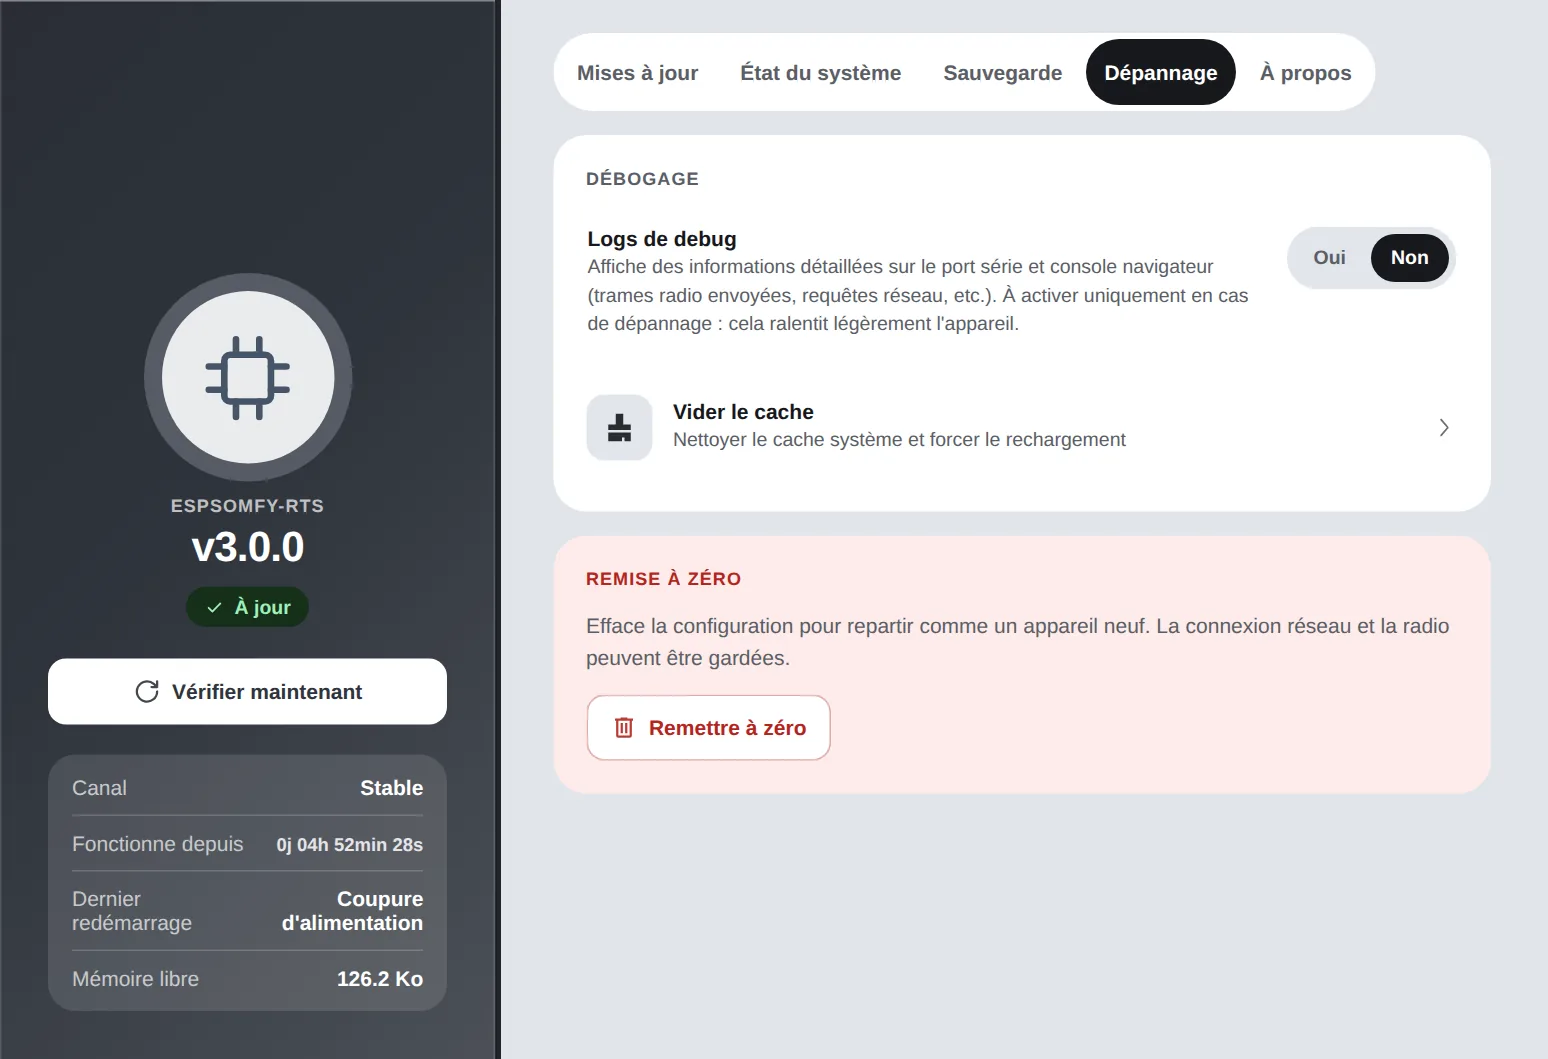
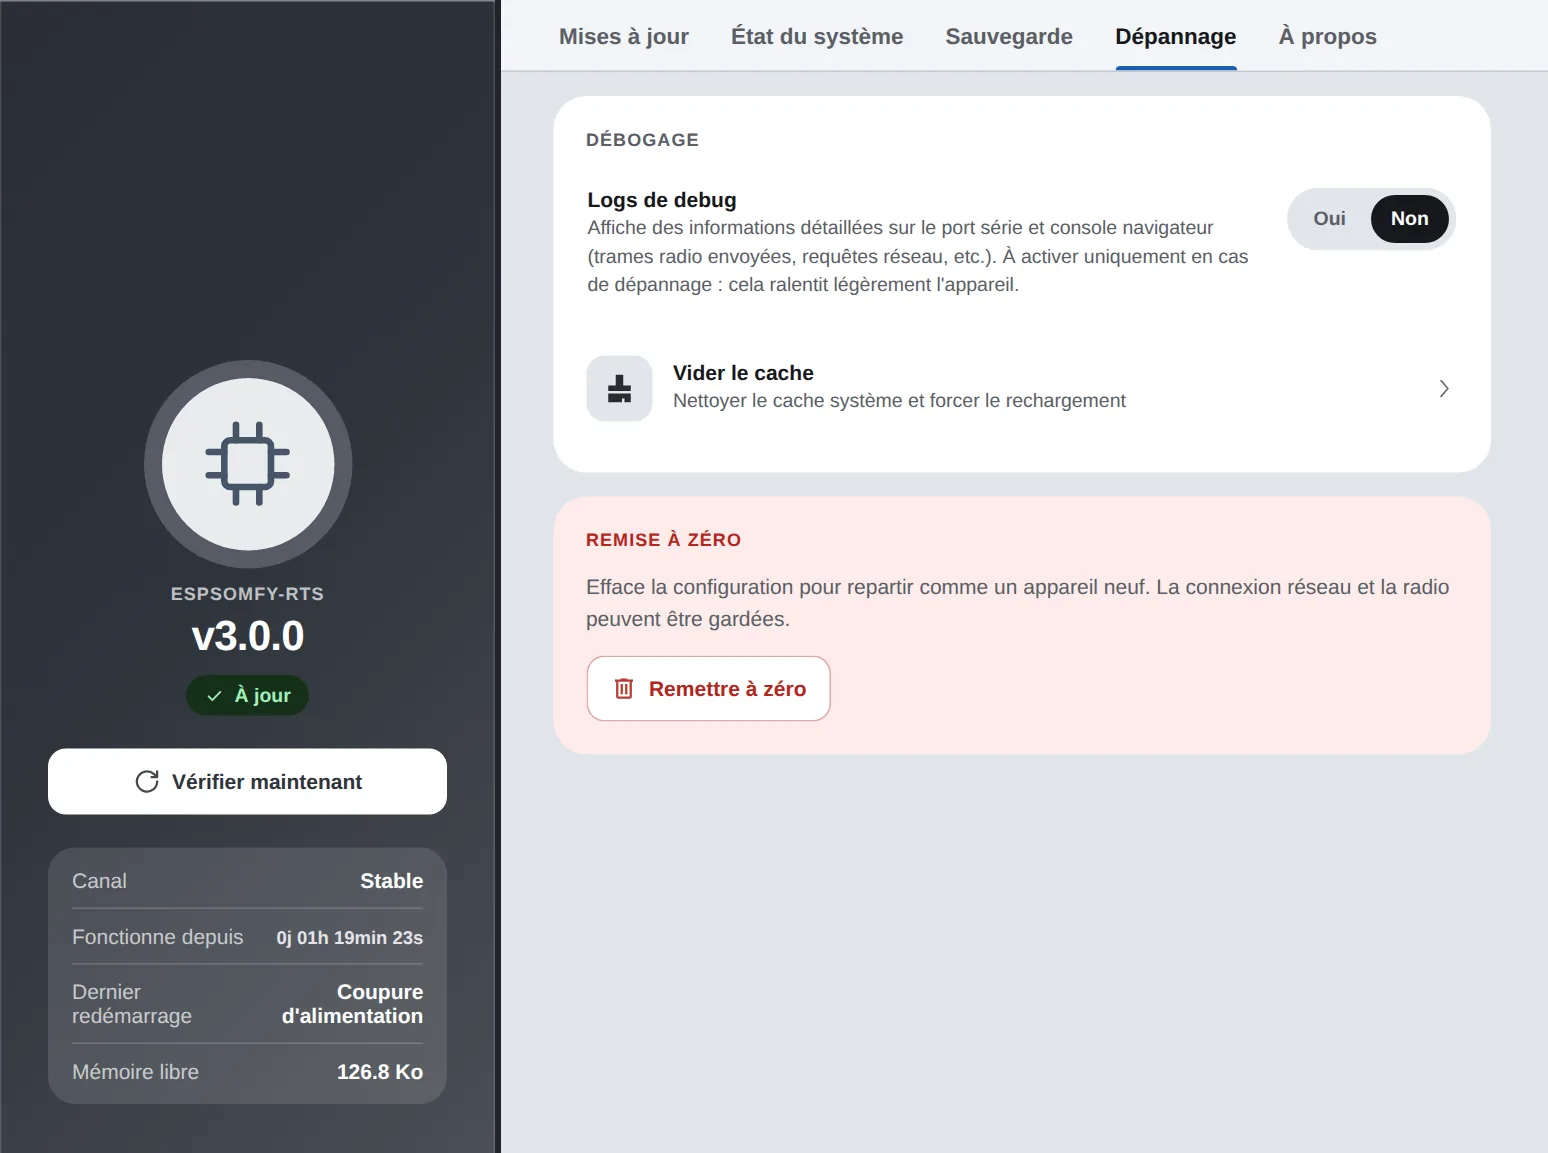
Document the install mode on the System page and refresh its captures
The Updates tab now describes the manual install tile as it stands:
install from a file, or restart into install mode, the minimal firmware
every update goes through. The troubleshooting tab points to install
mode (six power cuts) next to recovery mode (three), and the About tab
mentions the Discussions hint of the help tooltip.

The ten captures were retaken on the test device with the current
interface, including the underlined tab band, cropped to the page
without the app sidebar.

Checked with docs/verifier.sh: no dead link or anchor. Only the System
page and its images are touched; the work in progress in data-dev and
the other doc pages is left out.

diff --git a/docs/content/v3/appareil/systeme/index.md b/docs/content/v3/appareil/systeme/index.md
@@ -34,12 +34,17 @@ jour ou restauration.
 | **Version installée** | Le numéro de version, l'état (*Votre système est à jour*, *Mise à jour disponible*…) et l'heure de la dernière vérification. Quand une version est disponible, la tuile affiche la version proposée, un lien vers ses **notes de version** et un bouton pour l'installer. La ligne **Choisir une autre version** permet de réinstaller, de revenir en arrière ou de passer en version de développement. |
 | **Vérification automatique** | **Me prévenir des mises à jour** : `Oui` / `Non`. La vérification a lieu à chaque ouverture de l'interface ; rien n'est installé sans votre accord. |
 | **Canal** | **Version stable** (une version publiée) ou **Version de développement** (construite à chaque modification du code, sans être éprouvée). |
-| **Installation manuelle** | Sans passer par Internet : **Installer depuis un fichier** (un fichier `.bin` téléchargé au préalable) et **Redémarrer en mode installation**. |
+| **Installation manuelle** | Sans passer par Internet, avec un fichier téléchargé au préalable. **Installer depuis un fichier** envoie une image `.bin` faite pour votre carte (son nom est rappelé sous le bouton). **Redémarrer en mode installation** demande confirmation, redémarre l'appareil sur son firmware minimal et ouvre sa page d'envoi de fichier. |
 
 C'est **votre navigateur**, et non l'appareil, qui va chercher les versions publiées : c'est lui qui
 doit avoir accès à Internet.
 
-Pour aller plus loin : [Mises à jour du firmware](mises-a-jour.md).
+Chaque mise à jour, en ligne ou par fichier, passe par le [Mode installation](mode-installation.md) :
+l'appareil y redémarre, reçoit l'image, puis revient sur le nouveau firmware. Votre configuration
+n'est pas touchée.
+
+Pour aller plus loin : [Mises à jour du firmware](mises-a-jour.md) et
+[Mode installation](mode-installation.md).
 
 ## État du système { #status }
 
@@ -121,7 +126,9 @@ l'appareil redémarre sur son point d'accès de secours.
 
     Seule une sauvegarde faite avant permet de revenir en arrière.
 
-Si l'interface ne répond plus du tout, voir [Mode Récupération](recuperation.md).
+Si l'interface ne répond plus du tout, voir [Mode Récupération](recuperation.md) (trois coupures
+d'alimentation) ou, si le firmware lui-même ne démarre plus, le
+[Mode installation](mode-installation.md#six-coupures) (six coupures).
 
 ## À propos { #about }
 
@@ -129,7 +136,7 @@ Si l'interface ne répond plus du tout, voir [Mode Récupération](recuperation.
 
 | Tuile | Ce qu'elle montre ou permet |
 |---|---|
-| **Aide** | **Documentation** ouvre le guide. **Signaler un problème** ouvre un rapport de bug pré-rempli sur GitHub ; l'infobulle `?` rappelle que les tickets sont réservés aux vrais bugs du firmware (pour une question, voir [Aide](../../../aide/index.md)). |
+| **Aide** | **Documentation** ouvre le guide. **Signaler un problème** ouvre un rapport de bug pré-rempli sur GitHub ; l'infobulle `?` rappelle que les tickets sont réservés aux vrais bugs du firmware et propose de poser plutôt une question dans les Discussions GitHub (voir aussi [Aide](../../../aide/index.md)). |
 | **Crédits du projet** | Les auteurs, le copyright et la licence. |
 | **Contributeurs du projet** | Celles et ceux qui ont apporté du code, des traductions, des tests ou des signalements. Un clic sur un nom ouvre son profil GitHub. |
 
@@ -154,6 +161,7 @@ conditions de l'AGPL-3.0.
 ## Pages liées
 
 * [Mises à jour du firmware](mises-a-jour.md)
+* [Mode installation](mode-installation.md)
 * [Témoin LED de statut](led-de-statut.md)
 * [Restaurer le système](restaurer.md)
 * [Anatomie du fichier de sauvegarde](anatomie-sauvegarde.md)
